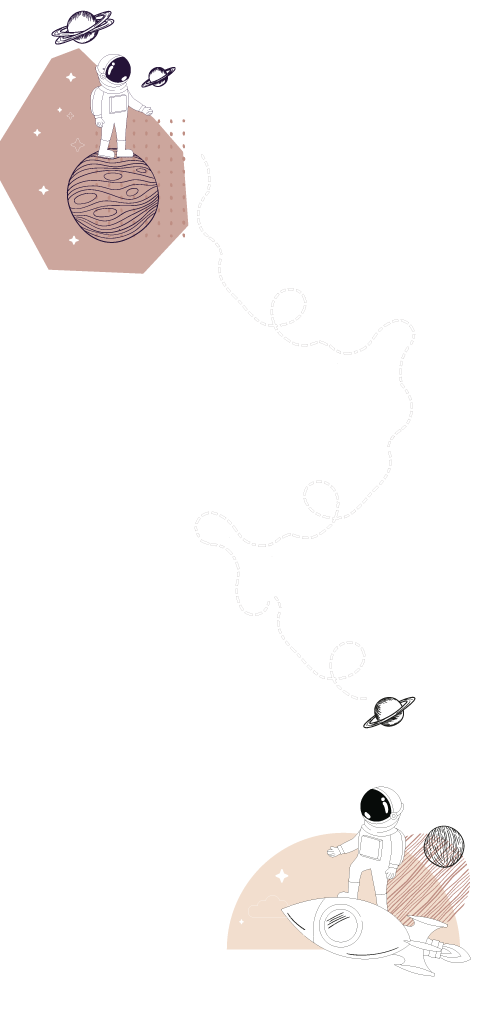
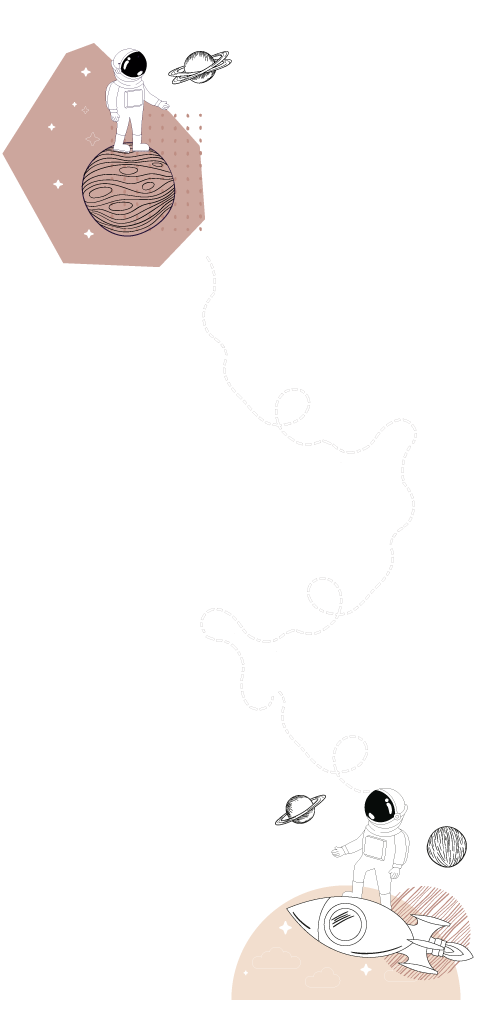
blog 1.2

Changed region(s): [[0.4688, 0.75, 1.0, 1.0], [0.0, 0.0, 0.4688, 0.2812], [0.75, 0.6562, 0.875, 0.7188]]

diff --git a/src/components/style.scss b/src/components/style.scss
@@ -38,7 +38,7 @@ html {
 }
 @media (max-width: 768px) {
   .atlas-1 {
-    background: white url(../images/365x768.png) center / cover;
+    background: white url(../images/487x1024.png) center / cover;
   }
 }
 
@@ -50,7 +50,7 @@ html {
 
 @media (max-width: 768px) {
   .atlas-2 {
-    background: white url(../images/2CEL.png) center / cover;
+    background: white url(../images/CelES2.png) center / cover;
   }
 }
 
@@ -61,7 +61,7 @@ html {
 }
 @media (max-width: 768px) {
   .atlas-3 {
-    background: white url(../images/3CEL.png) center / cover;
+    background: white url(../images/CelEs3.png) center / cover;
   }
 }
 
@@ -72,7 +72,7 @@ html {
 }
 @media (max-width: 768px) {
   .atlas-4 {
-    background: white url(../images/4CEL.png) center / cover;
+    background: white url(../images/CelES4.png) center / cover;
   }
 }
 
@@ -83,7 +83,7 @@ html {
 }
 @media (max-width: 768px) {
   .atlas-5 {
-    background: white url(../images/5CEL.png) center / cover;
+    background: white url(../images/CelSE5.png) center / cover;
   }
 }
 
@@ -94,7 +94,7 @@ html {
 }
 @media (max-width: 768px) {
   .atlas-6 {
-    background: white url(../images/6CEL.png) center / cover;
+    background: white url(../images/CelEs6.png) center / cover;
   }
 }
 
@@ -105,7 +105,7 @@ html {
 }
 @media (max-width: 768px) {
   .atlas-7 {
-    background: white url(../images/7CEL.png) center / cover;
+    background: white url(../images/CelEs7.png) center / cover;
   }
 }
 .gradientBg {

diff --git a/src/pages/index.js b/src/pages/index.js
@@ -165,18 +165,19 @@ export default () => {
                   web en Google para que estés a la vista de muchas personas que
                   están buscando lo que tú les puedes ofrecer.
                 </p>
-              </div>
-              <div className="column is-hidden-mobile"></div>
-            </div>
-            <div className="columns">
-              <div className="column is-hidden-mobile"></div>
-              <div className="is-4 has-text-weight-bold is-centered ola-3">
                 <Link
                   to="/posicionamiento-web-queretaro"
                   className="button is-warning is-rounded"
                 >
                   LEER MÁS
                 </Link>
+              </div>
+              <div className="column is-hidden-mobile"></div>
+            </div>
+            <div className="columns">
+              <div className="column is-hidden-mobile"></div>
+              <div className="is-4 has-text-weight-bold is-centered ola-3">
+
               </div>
               <div className="column"></div>
             </div>
